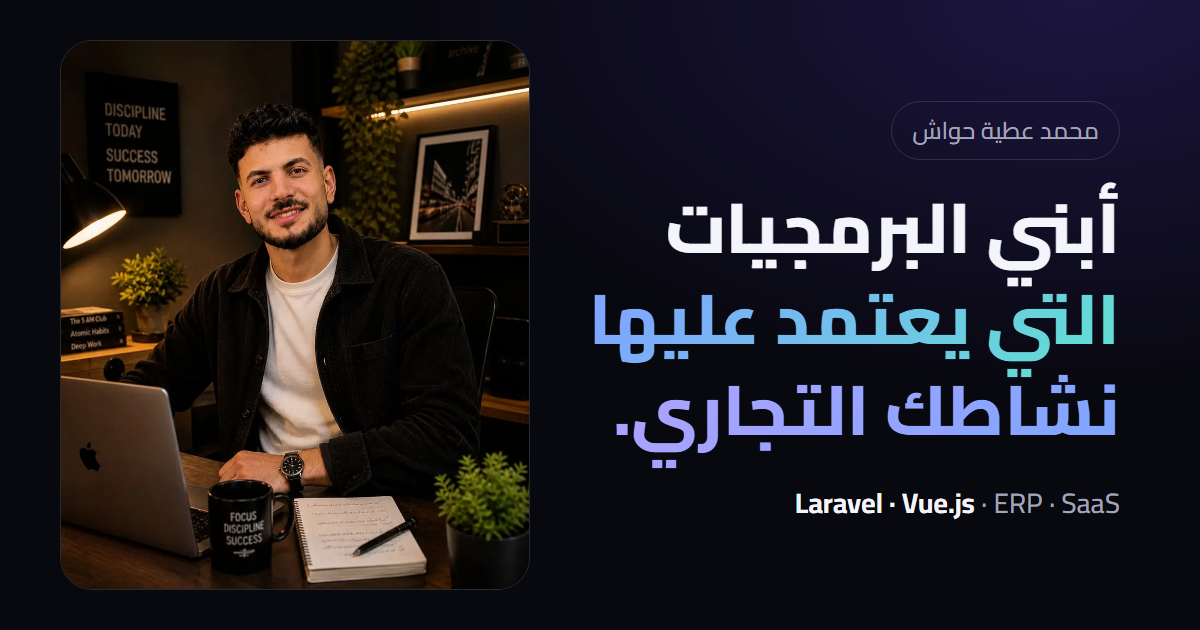
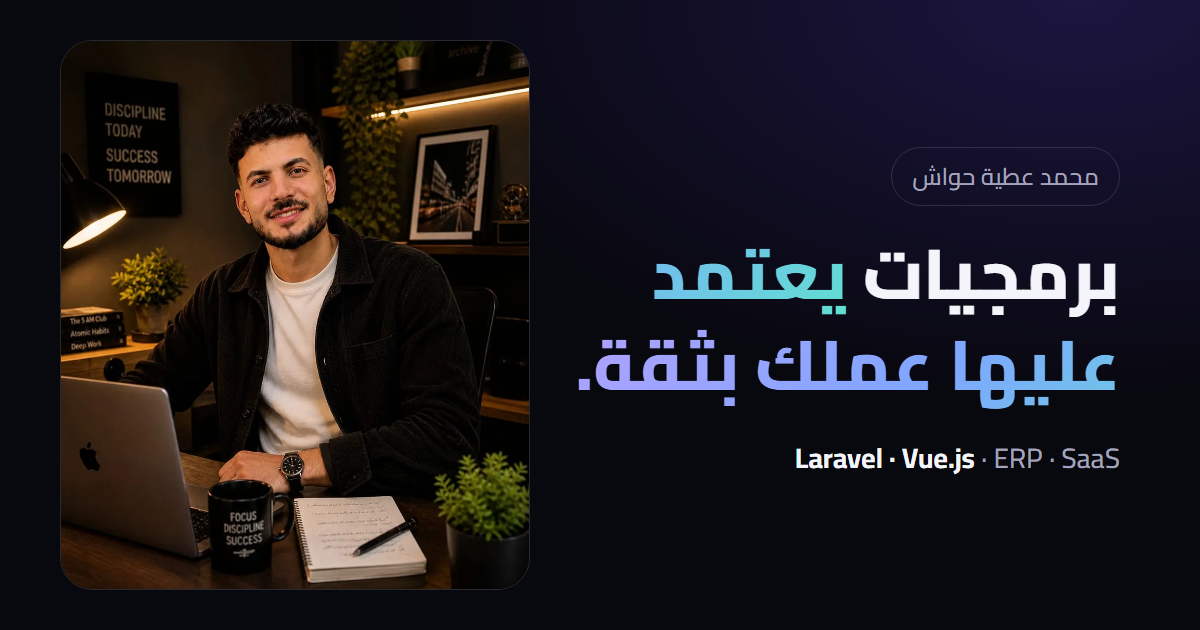
Rewrite copy as benefit-led marketing content (AR/EN) and refresh OG images

Changed region(s): [[0.4625, 0.181, 0.9558, 0.754], [0.6475, 0.7841, 0.9558, 0.8143]]

diff --git a/src/i18n/ar.js b/src/i18n/ar.js
@@ -11,7 +11,7 @@ const ar = {
     keywords: ['محمد عطية حواش', 'مبرمج لارافيل', 'مطور Laravel', 'مبرمج Vue.js', 'مطور React', 'مطور Next.js', 'مبرمج ووردبريس', 'برمجة أنظمة ERP', 'برمجة SaaS', 'مواقع جاهزة للسيو', 'مبرمج في مصر'],
     projectsTitle: 'كل المشاريع | محمد عطية حواش — مبرمج Laravel و Vue.js',
     projectsDescription: 'تصفّح كل المشاريع الحيّة لمحمد عطية حواش: أنظمة ERP ومنصات SaaS وأسواق B2B ومتاجر إلكترونية ومواقع شركات جاهزة للسيو.',
-    ogAlt: 'محمد عطية حواش — أبني البرمجيات التي يعتمد عليها نشاطك التجاري',
+    ogAlt: 'محمد عطية حواش — برمجيات يعتمد عليها عملك بثقة',
     notFoundTitle: 'الصفحة غير موجودة | محمد عطية حواش',
   },
 
@@ -40,10 +40,10 @@ const ar = {
 
   hero: {
     badge: 'متاح لمشاريع جديدة',
-    h1a: 'أبني البرمجيات ',
-    h1b: 'التي يعتمد عليها نشاطك التجاري.',
-    roles: ['مطوّر Full Stack', 'مهندس Laravel و Vue.js', 'مواقع جاهزة لمحركات البحث', 'قائد فريق هندسة البرمجيات'],
-    sub: 'مهندس أول في Laravel و Vue.js و React و Next.js وقائد فريق. أصمّم وأُطلق أنظمة ERP ومنصات SaaS ومواقع ووردبريس ومواقع جاهزة لمحركات البحث — من أول رسم للمعمارية حتى إطلاق مستقر وآمن.',
+    h1a: "برمجيات ",
+    h1b: "يعتمد عليها عملك بثقة.",
+    roles: ['مطوّر Full Stack', 'مهندس Laravel و Vue.js', 'مواقع جاهزة لمحركات البحث', 'مهندس برمجيات'],
+    sub: "أنظمة ERP ومنصات SaaS ومواقع جاهزة للسيو، مبنية بـ Laravel و Vue.js و React و Next.js — سريعة وآمنة وقابلة للتوسع. خبرة 5+ سنوات، و25+ مشروعاً مُسلَّماً، وأنظمة تخدم أكثر من 1,000 مستخدم متزامن.",
     primary: 'ابدأ مشروعك',
     secondary: 'شاهد الأعمال الحيّة',
     cv: 'تحميل السيرة الذاتية',
@@ -59,16 +59,16 @@ const ar = {
   },
 
   services: {
-    eyebrow: 'ماذا أقدّم',
+    eyebrow: 'ماذا تحصل عليه',
     title: { pre: 'خدمات مبنية حول ', accent: 'أهداف عملك', post: '' },
-    lead: 'خمس طرق أساعد بها الشركات على تحويل التحدّي التقني إلى برمجيات تعمل كل يوم.',
+    lead: "خمس طرق لتحويل التحدّي التقني إلى برمجيات تخدم عملك كل يوم.",
     link: 'ناقش هذه الخدمة',
     items: [
-      { title: 'منصات الأعمال وأنظمة ERP', description: 'أنظمة سحابية مخصّصة تربط العمليات والفِرَق والبيانات في مساحة عمل واحدة موثوقة — فيتوقف فريقك عن التنقل بين الجداول.', details: ['سير عمل ERP و CRM ونقاط البيع', 'المخزون والموارد البشرية والمالية', 'صلاحيات بالأدوار وفوترة إلكترونية'] },
-      { title: 'منتجات SaaS وتطبيقات Full-Stack', description: 'من متطلبات المنتج حتى النشر، أبني تطبيقات ويب جاهزة لاستقبال المستخدمين والنمو معهم.', details: ['تطبيقات SaaS متعددة المستأجرين', 'واجهات Vue.js / React', 'لوحات تحكم وتقارير'] },
-      { title: 'أنظمة الـ Backend وواجهات API', description: 'خوادم Laravel آمنة وواجهات REST مصمّمة لدعم المنتجات المعقّدة وتطبيقات الموبايل والتكاملات الخارجية.', details: ['معمارية Laravel', 'واجهات RESTful وتكاملات', 'مدفوعات وتوثيق وصلاحيات'] },
-      { title: 'مواقع جاهزة للسيو', description: 'مواقع سريعة وسليمة تقنياً يسهل اكتشافها في محركات البحث وتحوّل الزائرين إلى طلبات.', details: ['سيو تقني وسيو الصفحات', 'تحسين Core Web Vitals', 'مواقع عربية / إنجليزية'] },
-      { title: 'الأداء وقيادة الفِرَق', description: 'إنقاذ الأنظمة البطيئة أو الهشّة، ومساعدة فريقك الهندسي على إطلاق برمجيات موثوقة وقابلة للصيانة.', details: ['تحسين الاستعلامات والكاش', 'مراجعة الكود والمعمارية', 'تدريب وإرشاد الفريق'] },
+      { title: "منصات الأعمال وأنظمة ERP", description: "نظام سحابي واحد يربط المبيعات والموارد البشرية والمخزون والمالية — فيتوقف فريقك عن التنقل بين الجداول والأدوات المتفرقة.", details: ["سير عمل ERP وCRM ونقاط البيع","المخزون والموارد البشرية والمالية","صلاحيات بالأدوار وفوترة إلكترونية"] },
+      { title: "منتجات SaaS وتطبيقات Full-Stack", description: "من الفكرة حتى الإطلاق: تطبيقات ويب متعددة المستأجرين بواجهات متقنة، جاهزة لاستقبال المستخدمين والنمو معهم.", details: ["تطبيقات SaaS متعددة المستأجرين","واجهات Vue.js / React","لوحات تحكم وتقارير"] },
+      { title: "أنظمة الـ Backend وواجهات API", description: "خوادم Laravel آمنة وسريعة وواجهات REST تدعم المنتجات المعقّدة وتطبيقات الموبايل والتكاملات الخارجية.", details: ["معمارية Laravel","واجهات RESTful وتكاملات","مدفوعات وتوثيق وصلاحيات"] },
+      { title: "مواقع جاهزة للسيو", description: "مواقع سريعة وسليمة تقنياً مبنية لتتصدر محركات البحث وتحوّل الزائرين إلى طلبات.", details: ["سيو تقني وسيو الصفحات","تحسين Core Web Vitals","مواقع عربية / إنجليزية"] },
+      { title: "تحسين الأداء وإنقاذ الأنظمة", description: "نظام بطيء أو هشّ؟ تُحدَّد نقاط الاختناق وتُعالج وتُوثَّق، لتحصل على برمجيات تبقى سريعة وسهلة الصيانة.", details: ["تحسين الاستعلامات والكاش","مراجعة المعمارية والكود","إصلاح الأنظمة البطيئة أو الهشّة"] },
     ],
   },
 
@@ -95,8 +95,8 @@ const ar = {
   results: {
     eyebrow: 'سجل الإنجازات',
     title: { pre: 'تسليم ', accent: 'يمكنك الاعتماد عليه', post: '' },
-    lead: 'نتائج مقاسة من الأنظمة والفِرَق التي ساهمت في بنائها.',
-    items: ['سنوات من الخبرة المهنية', 'مشروعاً مُسلَّماً للعملاء', 'عملاء وفِرَق سعداء', 'مستخدم على المنصات التي أبنيها'],
+    lead: 'نتائج مقاسة من أنظمة بُنيت وسُلّمت لشركات حقيقية.',
+    items: ['سنوات من الخبرة المهنية', 'مشروعاً مُسلَّماً للعملاء', 'عملاء سعداء', 'مستخدم على المنصات المُسلَّمة'],
   },
 
   process: {
@@ -104,55 +104,55 @@ const ar = {
     title: { pre: 'من الفكرة إلى ', accent: 'الإنتاج', post: ' في أربع خطوات' },
     lead: 'سير عمل بسيط وشفاف يبقيك على اطّلاع من المكالمة الأولى حتى يوم الإطلاق.',
     steps: [
-      { title: 'الاكتشاف وتحديد النطاق', text: 'نناقش أهدافك ومستخدميك وقيودك، وأحوّلها إلى نطاق واضح وأولويات وخطة واقعية.', out: 'النطاق والخطة' },
-      { title: 'المعمارية والتصميم', text: 'أصمّم نموذج البيانات والـ API ومعمارية النظام ليتوسع المنتج ويبقى آمناً مع نموه.', out: 'المعمارية' },
+      { title: 'الاكتشاف وتحديد النطاق', text: "نناقش أهدافك ومستخدميك وقيودك، ثم نحوّلها إلى نطاق واضح وأولويات وخطة واقعية.", out: 'النطاق والخطة' },
+      { title: 'المعمارية والتصميم', text: "يُصمَّم نموذج البيانات والـ API ومعمارية النظام ليتوسع المنتج ويبقى آمناً مع نموه.", out: 'المعمارية' },
       { title: 'البناء على مراحل', text: 'تسليم رشيق مع عروض دورية ومراجعات كود واختبارات، لترى برمجيات تعمل مبكراً وباستمرار.', out: 'إصدارات تعمل' },
       { title: 'الإطلاق والدعم', text: 'النشر و SSL وتحسين الأداء والتسليم — ثم دعم مستمر مع تطوّر منتجك.', out: 'إطلاق مستقر' },
     ],
   },
 
   about: {
-    eyebrow: 'لماذا تعمل معي',
+    eyebrow: "لماذا يختار العملاء محمد عطية",
     title: { pre: 'مهندس يفكّر ', accent: 'كشريك أعمال', post: '' },
-    lead: 'أحوّل احتياجات العمل المعقّدة إلى برمجيات تتوسع.',
+    lead: "احتياجات عمل معقّدة تتحول إلى برمجيات تتوسع.",
     copy: [
-      'أنا قائد فريق هندسة برمجيات ومطوّر Laravel Full Stack أول بخبرة **5+ سنوات** في بناء وتوسيع تطبيقات الويب وأنظمة ERP السحابية ومنصات SaaS باستخدام PHP 8+ و Laravel و MySQL و Vue.js وواجهات RESTful. وأتولى أيضاً السيو ليسهل العثور على موقعك.',
-      'أقود فِرَق الهندسة وأدير دورة تطوير البرمجيات كاملة في بيئات Agile، مع سجل مثبت في تحسين أداء الـ Backend وتقديم حلول B2B ومؤسسية معقّدة في موعدها.',
+      "محمد عطية حواش مطوّر Laravel Full Stack أول بخبرة **5+ سنوات** في بناء وتوسيع تطبيقات الويب وأنظمة ERP السحابية ومنصات SaaS باستخدام PHP 8+ و Laravel و MySQL و Vue.js وواجهات RESTful — مع خبرة السيو لتسهيل العثور على موقعك.",
+      "من المتطلبات حتى النشر، يسير كل مشروع بعملية Agile واضحة، وبسجل مثبت في تسريع الـ Backend وتسليم حلول B2B ومؤسسية معقّدة في موعدها.",
     ],
-    focus: ['المعمارية', 'Backend', 'السيو', 'قيادة الفِرَق', 'SaaS'],
+    focus: ['المعمارية', 'Backend', 'السيو', 'التسليم', 'SaaS'],
     edu: { label: 'التعليم', degree: 'بكالوريوس الحاسبات والمعلومات (نظم المعلومات)', school: 'جامعة دمنهور · دفعة 2024' },
     reasons: [
-      { title: 'أداء يمكن قياسه', description: 'خفّضت أزمنة استجابة الـ API بنسبة 30% مع خدمة أكثر من 1,000 مستخدم متزامن.' },
-      { title: 'مبني ليتوسع', description: 'معمارية وتصميم قواعد بيانات تواصل العمل بكفاءة مع نمو مستخدميك وبياناتك.' },
-      { title: 'أمان افتراضي', description: 'صلاحيات بالأدوار وواجهات آمنة ونشر محمي في كل مشروع.' },
-      { title: 'كود نظيف وقابل للصيانة', description: 'كود موثّق ومُختبَر يستطيع فريقك مواصلة تطويره بعد الإطلاق بوقت طويل.' },
+      { title: "أداء يمكن قياسه", description: "خفض أزمنة استجابة الـ API بنسبة 30% على منصة تخدم أكثر من 1,000 مستخدم متزامن." },
+      { title: "قابل للتوسع وآمن", description: "معمارية وقواعد بيانات وصلاحيات بالأدوار تواصل العمل بأمان مع نمو المستخدمين والبيانات." },
+      { title: "تواصل واضح ومباشر", description: "إجابات صريحة وتحديثات منتظمة عبر واتساب أو البريد أو المكالمات — بلا مصطلحات معقّدة ولا مفاجآت." },
+      { title: "كود يدوم", description: "كود موثّق ومُختبَر يستطيع أي مطوّر مواصلة تطويره بعد الإطلاق بوقت طويل." },
     ],
   },
 
   skills: {
     eyebrow: 'الأدوات',
     title: { pre: 'التقنيات خلف ', accent: 'منتجك', post: '' },
-    lead: 'أدوات مثبتة أستخدمها يومياً لإطلاق منتجات موثوقة. العناصر المميّزة هي أدواتي الأساسية.',
+    lead: "أدوات مثبتة تُستخدم يومياً لإطلاق منتجات موثوقة. العناصر المميّزة هي الأدوات الأساسية.",
     groups: [
       { title: 'الـ Backend', skills: ['Laravel', 'PHP 8+', 'MySQL', 'MongoDB', 'RESTful APIs', 'Composer'], core: ['Laravel', 'PHP 8+', 'MySQL', 'RESTful APIs'] },
       { title: 'الواجهات الأمامية', skills: ['Vue.js', 'React', 'Next.js', 'WordPress', 'JavaScript ES6+', 'HTML5 / CSS3', 'Sass', 'Bootstrap', 'Blade'], core: ['Vue.js', 'React', 'Next.js', 'WordPress'] },
       { title: 'واجهات API والاختبار', skills: ['Postman', 'JSON / XML', 'API Resources', 'JWT / Sanctum', 'PHPUnit', 'Laravel Dusk'], core: [] },
       { title: 'النشر والأدوات', skills: ['Git / GitHub / GitLab', 'cPanel / WHM', 'AWS / VPS', 'SSL والدومينات', 'AWS S3 / Backblaze B2'], core: [] },
       { title: 'تحسين محركات البحث (SEO)', skills: ['السيو التقني', 'تحسين الصفحات', 'تطوير صديق للسيو'], core: ['السيو التقني'] },
-      { title: 'أسلوب العمل', skills: ['حل المشكلات والتصحيح', 'قيادة Agile', 'التواصل مع أصحاب المصلحة', 'سرعة الاندماج'], core: [] },
+      { title: 'أسلوب العمل', skills: ['حل المشكلات والتصحيح', 'تسليم Agile', 'تواصل واضح', 'سرعة الاندماج'], core: [] },
     ],
   },
 
   experience: {
     eyebrow: 'الخبرة',
-    title: { pre: 'فِرَق تثق بي ', accent: 'في صناعات متعدّدة', post: '' },
-    lead: 'ستة أدوار عبر وكالات وفِرَق منتجات والعمل الحر — دائماً أركّز على إطلاق برمجيات تصمد في الإنتاج.',
+    title: { pre: 'شركات تثق بي ', accent: 'في صناعات متعدّدة', post: '' },
+    lead: 'ستة أدوار عبر وكالات وشركات منتجات والعمل الحر — دائماً أركّز على إطلاق برمجيات تصمد في الإنتاج.',
     showMore: 'عرض الخبرات السابقة ({n} أخرى)',
     showLess: 'عرض أقل',
     jobs: [
       {
-        title: 'قائد فريق هندسة البرمجيات / مطوّر Full Stack أول', company: 'Cord Digital', period: 'يناير 2022 – الآن', type: 'دوام كامل',
-        description: 'رئيس قسم هندسة البرمجيات؛ أقود قرارات المعمارية التقنية وأشرف على مراجعات الكود وأوجّه الفريق في جميع المشاريع الجارية.',
+        title: 'مطوّر Full Stack أول', company: 'Cord Digital', period: 'يناير 2022 – الآن', type: 'دوام كامل',
+        description: "مسؤول عن المعمارية التقنية وتسليم مشاريع عملاء الشركة — من تحليل المتطلبات حتى النشر.",
         achievements: [
           'طوّرت وصنت أكثر من 20 تطبيق ويب باستخدام Laravel و PHP و MySQL و Vue.js و Bootstrap',
           'بنيت أنظمة ERP مخصّصة ولوحات تحكم وصلاحيات RBAC ومخزون ومبيعات وتقارير مالية',
@@ -215,18 +215,18 @@ const ar = {
     title: { pre: 'أسئلة يسألها العملاء ', accent: 'أولاً', post: '' },
     items: [
       { q: 'ما نوع المشاريع التي تتولّاها؟', a: 'أنظمة ERP وأنظمة الأعمال المخصّصة، ومنصات SaaS، وواجهات الـ API والتكاملات، ومواقع جاهزة للسيو، وإنقاذ الأنظمة البطيئة أو الهشّة.' },
-      { q: 'هل تعمل على كود موجود أو مع فريقي؟', a: 'نعم. أحسّن بانتظام أنظمة Laravel القائمة (الاستعلامات والكاش والمعمارية)، وأجري مراجعات الكود وأدرّب فِرَق الهندسة إلى جانب تسليم الميزات الجديدة.' },
+      { q: 'هل تعمل على مشروع قائم؟', a: "نعم. يمكن تحسين أنظمة Laravel القائمة (الاستعلامات والكاش والمعمارية)، كما يمكن استلام مشروع من مطوّر آخر ومراجعته وتثبيته ومواصلة البناء عليه." },
       { q: 'ما التقنيات التي تستخدمها؟', a: 'Laravel و PHP 8+ و MySQL و Vue.js و React و Next.js وواجهات REST، مع النشر على AWS أو VPS أو cPanel وإعداد SSL والدومين.' },
-      { q: 'هل تتولّى السيو والنشر أيضاً؟', a: 'نعم. السيو التقني وسيو الصفحات وتحسين Core Web Vitals والمواقع العربية/الإنجليزية والإطلاق الكامل — الاستضافة و SSL والتسليم — كلها جزء من عملي.' },
-      { q: 'كيف نبدأ؟', a: 'أرسل ملخصاً قصيراً عبر النموذج أو واتساب. نناقش أهدافك ونطاق المشروع في مكالمة أو محادثة، ثم أعود إليك بالأسلوب المقترح والخطوات التالية.' },
-      { q: 'هل تعمل مع عملاء خارج مصر؟', a: 'نعم — سلّمت منصات لعملاء في مصر والكويت، وأتواصل عبر واتساب والبريد والمكالمات.' },
+      { q: 'هل تتولّى السيو والنشر أيضاً؟', a: "نعم. السيو التقني وسيو الصفحات وتحسين Core Web Vitals والمواقع العربية/الإنجليزية والإطلاق الكامل — الاستضافة وSSL والتسليم — كلها ضمن آلية تنفيذ المشاريع." },
+      { q: 'كيف نبدأ؟', a: "أرسل ملخصاً قصيراً عبر النموذج أو واتساب. بعد مكالمة أو محادثة حول أهدافك ونطاق المشروع، تصلك خطة العمل المقترحة والخطوات التالية." },
+      { q: 'هل تعمل مع عملاء خارج مصر؟', a: "نعم — سُلّمت منصات لعملاء في مصر والكويت، والتواصل عبر واتساب والبريد والمكالمات." },
     ],
   },
 
   contact: {
     eyebrow: 'لنتحدّث',
     title: { pre: 'لديك مشروع في بالك؟ ', accent: 'لنبنِه معاً.', post: '' },
-    lead: 'أخبرني بما تريد تحقيقه — نظام ERP أو منتج SaaS أو موقع أسرع أو Backend أقوى. سأردّ بنصيحة صريحة وخطوة تالية واضحة.',
+    lead: "ما تريد تحقيقه — نظام ERP أو منتج SaaS أو موقع أسرع أو Backend أقوى — اشرحه في رسالة قصيرة، وستحصل على نصيحة صريحة وخطوة تالية واضحة.",
     whatsapp: 'تحدّث عبر واتساب',
     channels: { email: 'البريد الإلكتروني', phone: 'الهاتف', location: 'الموقع' },
     locationValue: 'سيدي غازي، كفر الدوار، البحيرة، مصر',
@@ -243,7 +243,7 @@ const ar = {
   },
 
   footer: {
-    description: 'مهندس Laravel و Vue.js Full Stack أبني أنظمة ERP ومنصات SaaS ومواقع جاهزة للسيو للشركات التي تحتاج برمجيات تعتمد عليها.',
+    description: "هندسة Laravel و Vue.js لأنظمة ERP ومنصات SaaS ومواقع جاهزة للسيو — برمجيات تعتمد عليها الشركات.",
     explore: 'استكشف',
     touch: 'تواصل معي',
     rights: 'جميع الحقوق محفوظة.',
@@ -255,7 +255,7 @@ const ar = {
     title: { pre: 'كل ', accent: 'المشاريع', post: '' },
     lead: 'كل نظام ومنصة وموقع هنا يعمل مباشرة. افتح أي منها وشاهد العمل في الإنتاج.',
     groups: [
-      { title: 'مشاريع مميّزة', note: 'منصات وأنظمة صمّمتها وأطلقتها.' },
+      { title: 'مشاريع مميّزة', note: 'منصات وأنظمة صُمّمت وأُطلقت من الفكرة حتى الإنتاج.' },
       { title: 'مشاريع إضافية', note: 'أعمال سابقة وبناءات خاصة.' },
       { title: 'مواقع العملاء', note: 'مواقع ومنصات حيّة بُنيت للعملاء.' },
     ],
@@ -270,10 +270,10 @@ const ar = {
 
   seo: {
     personName: 'محمد عطية حواش',
-    jobTitle: 'مطوّر Laravel و Vue.js Full Stack، قائد فريق هندسة البرمجيات',
+    jobTitle: 'مطوّر Laravel و Vue.js Full Stack، مهندس برمجيات',
     serviceName: 'محمد عطية حواش — تطوير الويب والبرمجيات',
     websiteName: 'محمد عطية حواش — معرض الأعمال',
-    offers: ['منصات الأعمال وأنظمة ERP', 'منتجات SaaS وتطبيقات Full-Stack', 'أنظمة الـ Backend وواجهات REST', 'مواقع جاهزة للسيو وووردبريس', 'تحسين الأداء وقيادة الفِرَق'],
+    offers: ['منصات الأعمال وأنظمة ERP', 'منتجات SaaS وتطبيقات Full-Stack', 'أنظمة الـ Backend وواجهات REST', 'مواقع جاهزة للسيو وووردبريس', 'تحسين الأداء وإنقاذ الأنظمة'],
     listName: 'مشاريع محمد عطية حواش',
     breadcrumbHome: 'الرئيسية',
     breadcrumbProjects: 'كل المشاريع',

diff --git a/src/i18n/en.js b/src/i18n/en.js
@@ -11,7 +11,7 @@ const en = {
     keywords: ['Mohamed Atya Hawash', 'Laravel developer', 'Vue.js developer', 'React developer', 'Next.js developer', 'WordPress developer', 'PHP developer', 'ERP development', 'SaaS development', 'SEO-friendly websites', 'Egypt'],
     projectsTitle: 'All Projects | Mohamed Atya Hawash — Laravel & Vue.js Developer',
     projectsDescription: 'Browse every live project by Mohamed Atya Hawash: ERP systems, SaaS platforms, B2B marketplaces, e-commerce stores and SEO-ready company websites.',
-    ogAlt: 'Mohamed Atya Hawash — I build the software your business runs on',
+    ogAlt: 'Mohamed Atya Hawash — Software your business can rely on',
     notFoundTitle: 'Page not found | Mohamed Atya Hawash',
   },
 
@@ -40,10 +40,10 @@ const en = {
 
   hero: {
     badge: 'Available for new projects',
-    h1a: 'I build the software ',
-    h1b: 'your business runs on.',
-    roles: ['Full Stack Developer', 'Laravel & Vue.js Architect', 'SEO-Friendly Web Builds', 'Software Engineering Team Lead'],
-    sub: 'Senior Laravel, Vue.js, React & Next.js engineer and team lead. I design and ship ERP systems, SaaS platforms, WordPress sites and SEO-ready websites — from first architecture sketch to a stable, secure launch.',
+    h1a: "Software your ",
+    h1b: "business can rely on.",
+    roles: ['Full Stack Developer', 'Laravel & Vue.js Architect', 'SEO-Friendly Web Builds', 'Software Engineer'],
+    sub: "ERP systems, SaaS platforms and SEO-ready websites built with Laravel, Vue.js, React & Next.js — fast, secure and made to scale. 5+ years of experience, 25+ delivered projects and systems serving 1,000+ concurrent users.",
     primary: 'Start your project',
     secondary: 'See live work',
     cv: 'Download CV',
@@ -59,16 +59,16 @@ const en = {
   },
 
   services: {
-    eyebrow: 'What I do',
+    eyebrow: 'What you get',
     title: { pre: 'Services built around ', accent: 'your business goals', post: '' },
-    lead: 'Five ways I help businesses turn a technical challenge into software that works every day.',
+    lead: "Five ways to turn a technical challenge into software that works for your business every day.",
     link: 'Discuss this',
     items: [
-      { title: 'Business Platforms & ERP', description: 'Custom cloud systems that connect operations, teams and data in one dependable workspace — so your staff stop juggling spreadsheets.', details: ['ERP workflows, CRM & POS', 'Inventory, HR and finance', 'Role-based access & e-invoicing'] },
-      { title: 'SaaS & Full-Stack Products', description: 'From product requirements to deployment, I build web applications that are ready to onboard users and grow with them.', details: ['Multi-tenant SaaS applications', 'Vue.js / React interfaces', 'Dashboards & reporting'] },
-      { title: 'Backend Systems & APIs', description: 'Secure Laravel backends and REST APIs designed to carry complex products, mobile apps and third-party integrations.', details: ['Laravel architecture', 'RESTful APIs & integrations', 'Payments, auth & RBAC'] },
-      { title: 'SEO-Ready Websites', description: 'Fast, technically sound websites that are easier to discover on search engines and convert visitors into enquiries.', details: ['Technical & on-page SEO', 'Core Web Vitals tuning', 'Arabic / English builds'] },
-      { title: 'Performance & Team Leadership', description: 'Rescue slow or fragile systems, and help your engineering team ship reliable, maintainable software.', details: ['Query & cache optimization', 'Code reviews & architecture', 'Team mentorship'] },
+      { title: "Business Platforms & ERP", description: "One cloud system that connects sales, HR, inventory and finance — so your team stops juggling spreadsheets and disconnected tools.", details: ["ERP workflows, CRM & POS","Inventory, HR and finance","Role-based access & e-invoicing"] },
+      { title: "SaaS & Full-Stack Products", description: "From idea to launch: multi-tenant web applications with polished interfaces, ready to onboard users and grow with them.", details: ["Multi-tenant SaaS applications","Vue.js / React interfaces","Dashboards & reporting"] },
+      { title: "Backend Systems & APIs", description: "Secure, fast Laravel backends and REST APIs that power complex products, mobile apps and third-party integrations.", details: ["Laravel architecture","RESTful APIs & integrations","Payments, auth & RBAC"] },
+      { title: "SEO-Ready Websites", description: "Fast, technically sound websites built to rank on search engines and turn visitors into enquiries.", details: ["Technical & on-page SEO","Core Web Vitals tuning","Arabic / English builds"] },
+      { title: "Performance & System Rescue", description: "Slow or fragile system? Bottlenecks are found, fixed and documented, leaving software that stays fast and easy to maintain.", details: ["Query & cache optimization","Architecture & code audits","Fixing slow or fragile systems"] },
     ],
   },
 
@@ -95,8 +95,8 @@ const en = {
   results: {
     eyebrow: 'Track record',
     title: { pre: 'Delivery you can ', accent: 'count on', post: '' },
-    lead: "Measured outcomes from the systems and teams I've helped build.",
-    items: ['Years of professional experience', 'Projects delivered to clients', 'Happy clients and teams', 'Users served on the platforms I build'],
+    lead: 'Measured outcomes from systems built and delivered to real businesses.',
+    items: ['Years of professional experience', 'Projects delivered to clients', 'Happy clients', 'Users served across the delivered platforms'],
   },
 
   process: {
@@ -104,55 +104,55 @@ const en = {
     title: { pre: 'From idea to ', accent: 'production', post: ' in four steps' },
     lead: 'A simple, transparent workflow that keeps you informed from the first call to launch day.',
     steps: [
-      { title: 'Discover & scope', text: 'We talk through your goals, users and constraints. I turn them into a clear scope, priorities and a realistic plan.', out: 'Scope & plan' },
-      { title: 'Architect & design', text: 'I design the data model, API and system architecture so the product can scale and stay secure as it grows.', out: 'Architecture' },
+      { title: 'Discover & scope', text: "We talk through your goals, users and constraints, then turn them into a clear scope, priorities and a realistic plan.", out: 'Scope & plan' },
+      { title: 'Architect & design', text: "The data model, API and system architecture are designed so the product scales and stays secure as it grows.", out: 'Architecture' },
       { title: 'Build in iterations', text: 'Agile delivery with regular demos, code reviews and testing, so you see working software early and often.', out: 'Working releases' },
       { title: 'Launch & support', text: 'Deployment, SSL, performance tuning and hand-over — then ongoing support as your product evolves.', out: 'Stable launch' },
     ],
   },
 
   about: {
-    eyebrow: 'Why work with me',
+    eyebrow: "Why clients choose Mohamed",
     title: { pre: 'An engineer who thinks like ', accent: 'a business partner', post: '' },
-    lead: 'I turn complex business needs into software that scales.',
+    lead: "Complex business needs, turned into software that scales.",
     copy: [
-      "I'm a Software Engineering Team Lead and Senior Full Stack Laravel Developer with **5+ years** of experience architecting and scaling web applications, cloud ERPs and SaaS platforms using PHP 8+, Laravel, MySQL, Vue.js and RESTful APIs. I also handle SEO so your website is easy to find.",
-      'I lead engineering teams and manage the full software development lifecycle in Agile environments — with a proven record of optimizing backend performance and delivering complex B2B and enterprise solutions on time.',
+      "Mohamed Atya Hawash is a Senior Full Stack Laravel developer with **5+ years** of experience architecting and scaling web applications, cloud ERPs and SaaS platforms with PHP 8+, Laravel, MySQL, Vue.js and RESTful APIs — plus the SEO know-how to make them easy to find.",
+      "From requirements to deployment, every project follows a clear Agile process, backed by a proven record of faster backends and on-time delivery of complex B2B and enterprise solutions.",
     ],
-    focus: ['Architecture', 'Backend', 'SEO', 'Team leadership', 'SaaS'],
+    focus: ['Architecture', 'Backend', 'SEO', 'Delivery', 'SaaS'],
     edu: { label: 'Education', degree: 'B.Sc. Computers & Information (Information Systems)', school: 'Damanhour University · Class of 2024' },
     reasons: [
-      { title: 'Performance you can measure', description: 'Reduced API response times by 30% while serving 1,000+ concurrent users.' },
-      { title: 'Built to scale', description: 'Architecture and database design that keep working as your users and data grow.' },
-      { title: 'Security by default', description: 'Role-based access, secure APIs and safe deployments in every project.' },
-      { title: 'Clean, maintainable code', description: 'Documented, tested code your team can keep extending long after launch.' },
+      { title: "Measurable performance", description: "API response times cut by 30% on a platform serving 1,000+ concurrent users." },
+      { title: "Scalable and secure", description: "Architecture, database design and role-based access that keep working safely as users and data grow." },
+      { title: "Clear, direct communication", description: "Straight answers and regular updates over WhatsApp, email or calls — no jargon, no surprises." },
+      { title: "Code that lasts", description: "Documented, tested code that any developer can extend long after launch." },
     ],
   },
 
   skills: {
     eyebrow: 'Toolbox',
     title: { pre: 'The stack behind ', accent: 'your product', post: '' },
-    lead: 'Proven tools I use every day to ship reliable products. Highlighted items are my daily drivers.',
+    lead: "Proven tools used every day to ship reliable products. Highlighted items are the daily drivers.",
     groups: [
       { title: 'Backend', skills: ['Laravel', 'PHP 8+', 'MySQL', 'MongoDB', 'RESTful APIs', 'Composer'], core: ['Laravel', 'PHP 8+', 'MySQL', 'RESTful APIs'] },
       { title: 'Frontend', skills: ['Vue.js', 'React', 'Next.js', 'WordPress', 'JavaScript ES6+', 'HTML5 / CSS3', 'Sass', 'Bootstrap', 'Blade'], core: ['Vue.js', 'React', 'Next.js', 'WordPress'] },
       { title: 'APIs & Testing', skills: ['Postman', 'JSON / XML', 'API Resources', 'JWT / Sanctum', 'PHPUnit', 'Laravel Dusk'], core: [] },
       { title: 'Deployment & Tools', skills: ['Git / GitHub / GitLab', 'cPanel / WHM', 'AWS / VPS', 'SSL & domains', 'AWS S3 / Backblaze B2'], core: [] },
       { title: 'Search Engine Optimization', skills: ['Technical SEO', 'On-page optimization', 'SEO-friendly development'], core: ['Technical SEO'] },
-      { title: 'Working style', skills: ['Problem solving & debugging', 'Agile leadership', 'Stakeholder communication', 'Rapid onboarding'], core: [] },
+      { title: 'Working style', skills: ['Problem solving & debugging', 'Agile delivery', 'Clear communication', 'Rapid onboarding'], core: [] },
     ],
   },
 
   experience: {
     eyebrow: 'Experience',
-    title: { pre: 'Trusted by teams ', accent: 'across industries', post: '' },
-    lead: 'Six roles across agencies, product teams and freelance — always focused on shipping software that holds up in production.',
+    title: { pre: 'Trusted by businesses ', accent: 'across industries', post: '' },
+    lead: 'Six roles across agencies, product companies and freelance work — always focused on shipping software that holds up in production.',
     showMore: 'Show earlier experience ({n} more)',
     showLess: 'Show less',
     jobs: [
       {
-        title: 'Software Engineering Team Lead / Senior Full Stack Developer', company: 'Cord Digital', period: 'Jan 2022 – Present', type: 'Full-time',
-        description: 'Head of the Software Engineering Department, driving technical architecture decisions, overseeing code reviews and mentoring the team across all active projects.',
+        title: 'Senior Full Stack Developer', company: 'Cord Digital', period: 'Jan 2022 – Present', type: 'Full-time',
+        description: "Owning the technical architecture and delivery of the company's client projects — from requirements analysis to deployment.",
         achievements: [
           'Developed and maintained 20+ web applications using Laravel, PHP, MySQL, Vue.js and Bootstrap',
           'Engineered custom ERP systems, dashboards, RBAC, inventory, sales and financial reporting workflows',
@@ -215,18 +215,18 @@ const en = {
     title: { pre: 'Questions clients ', accent: 'ask first', post: '' },
     items: [
       { q: 'What kind of projects do you take on?', a: 'Custom ERP and business systems, SaaS platforms, backend APIs and integrations, SEO-ready websites, and performance rescues for slow or fragile systems.' },
-      { q: 'Can you work on an existing codebase or with my team?', a: 'Yes. I regularly optimize existing Laravel systems (queries, caching, architecture), run code reviews and mentor engineering teams alongside delivering new features.' },
+      { q: 'Can you work on an existing project?', a: "Yes. Existing Laravel systems can be optimized (queries, caching, architecture), and a codebase from another developer can be reviewed, stabilized and extended." },
       { q: 'Which technologies do you use?', a: 'Laravel, PHP 8+, MySQL, Vue.js, React and Next.js, REST APIs, plus deployment on AWS, VPS or cPanel with SSL and domain setup.' },
-      { q: 'Do you also handle SEO and deployment?', a: 'Yes. Technical and on-page SEO, Core Web Vitals tuning, Arabic/English builds and the full launch — hosting, SSL and hand-over — are part of how I work.' },
-      { q: 'How do we get started?', a: 'Send a short brief through the form or WhatsApp. We discuss your goals and scope on a call or chat, then I come back with an approach and next steps.' },
-      { q: 'Do you work with clients outside Egypt?', a: 'Yes — I have delivered platforms for clients in Egypt and Kuwait, and collaborate over WhatsApp, email and calls.' },
+      { q: 'Do you also handle SEO and deployment?', a: "Yes. Technical and on-page SEO, Core Web Vitals tuning, Arabic/English builds and the full launch — hosting, SSL and hand-over — are all part of how projects are delivered." },
+      { q: 'How do we get started?', a: "Send a short brief through the form or WhatsApp. After a call or chat about your goals and scope, you receive a proposed approach and clear next steps." },
+      { q: 'Do you work with clients outside Egypt?', a: "Yes — platforms have been delivered for clients in Egypt and Kuwait, with communication over WhatsApp, email and calls." },
     ],
   },
 
   contact: {
     eyebrow: "Let's talk",
     title: { pre: 'Have a project in mind? ', accent: "Let's build it.", post: '' },
-    lead: "Tell me what you're trying to achieve — an ERP, a SaaS product, a faster website or a stronger backend. I'll reply with honest advice and a clear next step.",
+    lead: "Describe what you want to achieve — an ERP, a SaaS product, a faster website or a stronger backend — and get honest advice and a clear next step.",
     whatsapp: 'Chat on WhatsApp',
     channels: { email: 'Email', phone: 'Phone', location: 'Based in' },
     locationValue: 'Sidi-Ghazi, Kafr El-Dawar, Al-Buhayrah, Egypt',
@@ -243,7 +243,7 @@ const en = {
   },
 
   footer: {
-    description: 'Full Stack Laravel & Vue.js engineer building ERP systems, SaaS platforms and SEO-ready websites for businesses that need software they can rely on.',
+    description: "Laravel & Vue.js engineering for ERP systems, SaaS platforms and SEO-ready websites — software that businesses can rely on.",
     explore: 'Explore',
     touch: 'Get in touch',
     rights: 'All rights reserved.',
@@ -255,7 +255,7 @@ const en = {
     title: { pre: 'All ', accent: 'projects', post: '' },
     lead: 'Every system, platform and website listed here is live. Open any of them to see the work in production.',
     groups: [
-      { title: 'Featured projects', note: 'Platforms and systems I architected and shipped.' },
+      { title: 'Featured projects', note: 'Platforms and systems architected and shipped end to end.' },
       { title: 'Additional projects', note: 'Earlier work and special builds.' },
       { title: 'Client websites', note: 'Live websites and platforms built for clients.' },
     ],
@@ -270,10 +270,10 @@ const en = {
 
   seo: {
     personName: 'Mohamed Atya Hawash',
-    jobTitle: 'Full Stack Laravel & Vue.js Developer, Software Engineering Team Lead',
+    jobTitle: 'Full Stack Laravel & Vue.js Developer, Software Engineer',
     serviceName: 'Mohamed Atya Hawash — Web & Software Development',
     websiteName: 'Mohamed Atya Hawash — Portfolio',
-    offers: ['Business platforms and ERP systems', 'SaaS and full-stack products', 'Backend systems and REST APIs', 'SEO-ready websites and WordPress', 'Performance optimization and team leadership'],
+    offers: ['Business platforms and ERP systems', 'SaaS and full-stack products', 'Backend systems and REST APIs', 'SEO-ready websites and WordPress', 'Performance optimization and system rescue'],
     listName: 'Projects by Mohamed Atya Hawash',
     breadcrumbHome: 'Home',
     breadcrumbProjects: 'All projects',

diff --git a/src/components/About.jsx b/src/components/About.jsx
@@ -2,11 +2,11 @@
 
 import React from 'react'
 import { motion } from 'framer-motion'
-import { FaRocket, FaShieldAlt, FaCode, FaUsers, FaGraduationCap } from 'react-icons/fa'
+import { FaRocket, FaShieldAlt, FaCode, FaComments, FaGraduationCap } from 'react-icons/fa'
 import SectionHead from './SectionHead'
 import { useT, Heading, renderBold } from '../i18n/LangProvider'
 
-const icons = [<FaRocket key="r" />, <FaUsers key="u" />, <FaShieldAlt key="s" />, <FaCode key="c" />]
+const icons = [<FaRocket key="r" />, <FaShieldAlt key="s" />, <FaComments key="m" />, <FaCode key="c" />]
 
 const About = () => {
   const { t } = useT()
